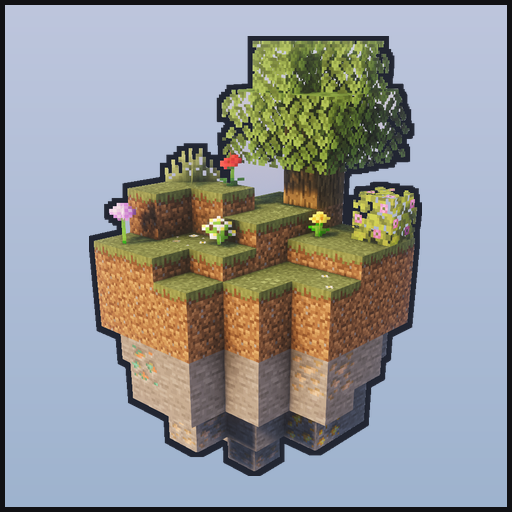
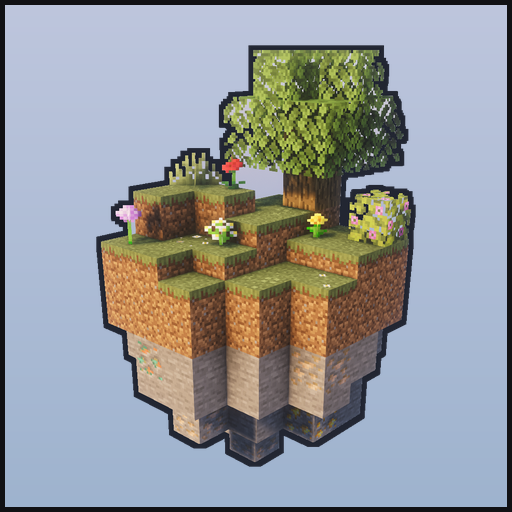
Pixelate the ring, and measure the layout by it rather than the island
Smooth vector arcs beside a block texture read as clip art dropped on a
screenshot. The ring is drawn at an eighth scale and blown back up with
NEAREST, so its curves land on a coarse grid and step the way the game's
own art does.

It also sat too close in, passing behind the canopy, which read as the
ring being interrupted rather than going around. It is wider now, and
the island is pulled back to make room.

That exposed a layout bug: the ring is centred on the island but reaches
well past it, and the block was measured by the island alone - so the
ring crowded the frame above and ran across the wordmark below. The
block now measures whichever is taller.

Two smaller things. The crop was the outline's exact bounding box, which
put the island's lowest pixel flush with the edge where downscaling
shaved it and the bottom tip looked cut off; it gets padding now. And
the wordmark is bigger, which there is room for since the island came
back.

Changed region(s): [[0.1562, 0.0625, 0.8438, 0.9375]]

diff --git a/docs/branding/make_banner.py b/docs/branding/make_banner.py
@@ -67,6 +67,10 @@ INK = (17, 17, 20)
 ARROW_GREEN = (0x6C, 0xC2, 0x4A)
 ARROW_BLUE = (0x4E, 0xA8, 0xE0)
 
+# Side of one arrow "pixel" in final image pixels. The ring is drawn this much
+# smaller and scaled back up with NEAREST.
+PIXEL_SIZE = 8
+
 SKY_TOP = (0xBE, 0xC6, 0xDD)
 SKY_BOTTOM = (0x9E, 0xB3, 0xCE)
 
@@ -111,8 +115,15 @@ def outlined_island(path: str):
 
     ring = ndimage.binary_dilation(mask, np.ones((3, 3)), iterations=OUTLINE_PX)
 
+    # A little air around the outline. Cropping to its exact bounds put the
+    # lowest pixel flush with the image edge, where downscaling shaved it and
+    # the island looked cut off at the bottom.
+    pad = OUTLINE_PX * 2
     ys, xs = np.where(ring)
-    box = (xs.min(), ys.min(), xs.max() + 1, ys.max() + 1)
+    box = (max(0, xs.min() - pad),
+           max(0, ys.min() - pad),
+           min(rgb.shape[1], xs.max() + 1 + pad),
+           min(rgb.shape[0], ys.max() + 1 + pad))
 
     out = np.zeros((rgb.shape[0], rgb.shape[1], 4), dtype=np.uint8)
     out[ring] = (*OUTLINE_INK, 255)  # outline underneath
@@ -187,7 +198,7 @@ def text_width(boxes, text, scale):
 
 # -------------------------------------------------------------------- arrows
 
-def arc_arrow(layer, cx, cy, radius, a0_deg, a1_deg, width, colour):
+def arc_arrow(layer, cx, cy, radius, a0_deg, a1_deg, width, colour, outline_w):
     """One arc with an arrowhead at its far end, outlined to match the island.
 
     Drawn as a run of overlapping discs rather than with ImageDraw.arc, which
@@ -202,7 +213,7 @@ def arc_arrow(layer, cx, cy, radius, a0_deg, a1_deg, width, colour):
     head_len = width * 2.0
     head_half = width * 1.35
 
-    for pass_w, pass_col in ((width + OUTLINE_PX * 0.9, OUTLINE_INK), (width, colour)):
+    for pass_w, pass_col in ((width + outline_w, OUTLINE_INK), (width, colour)):
         d = ImageDraw.Draw(layer)
         # The shaft runs right up to the head's base rather than stopping short
         # of it. The head is wider than the shaft and its tip sits beyond a1, so
@@ -228,17 +239,26 @@ def arc_arrow(layer, cx, cy, radius, a0_deg, a1_deg, width, colour):
         ], fill=(*pass_col, 255))
 
 
-def sync_ring(size, cx, cy, radius, width):
+def sync_ring(size, cx, cy, radius, width, pix=PIXEL_SIZE):
     """Two arrows chasing each other around a circle: the round trip.
 
     Both sweep the same way. The mod is not two one-way transfers, it is one
     world going out and coming back, and two arrows pointing at each other
     would say the opposite.
+
+    Drawn at a fraction of the final size and blown back up with NEAREST, so
+    the curves land on a coarse grid and step the way Minecraft's own art does.
+    Smooth vector arcs beside a block texture looked like clip art dropped on
+    top of a screenshot.
     """
-    layer = Image.new("RGBA", size, (0, 0, 0, 0))
-    arc_arrow(layer, cx, cy, radius, 200, 350, width, ARROW_GREEN)
-    arc_arrow(layer, cx, cy, radius, 20, 170, width, ARROW_BLUE)
-    return layer
+    small = (max(1, size[0] // pix), max(1, size[1] // pix))
+    layer = Image.new("RGBA", small, (0, 0, 0, 0))
+    args = (cx / pix, cy / pix, radius / pix)
+    w = max(1.0, width / pix)
+    ow = max(1.0, OUTLINE_PX * 0.9 / pix)
+    arc_arrow(layer, *args, 200, 350, w, ARROW_GREEN, ow)
+    arc_arrow(layer, *args, 20, 170, w, ARROW_BLUE, ow)
+    return layer.resize(size, Image.NEAREST)
 
 
 # ------------------------------------------------------------------ compose
@@ -263,17 +283,17 @@ def build():
     W = H = 1024
     canvas = sky_backdrop((W, H))
 
-    art_h = int(H * 0.56)
-    scale_f = min(art_h / island.height, (W * 0.72) / island.width)
+    art_h = int(H * 0.46)
+    scale_f = min(art_h / island.height, (W * 0.62) / island.width)
     art = island.resize(
         (max(1, int(island.width * scale_f)), max(1, int(island.height * scale_f))),
         Image.LANCZOS)
 
-    title_scale = 9
-    while text_width(boxes, TITLE, title_scale) > W * 0.86 and title_scale > 1:
+    title_scale = 14
+    while text_width(boxes, TITLE, title_scale) > W * 0.90 and title_scale > 1:
         title_scale -= 1
-    sub_scale = max(1, round(title_scale / 2.6))
-    while text_width(boxes, SUBTITLE, sub_scale) > W * 0.88 and sub_scale > 1:
+    sub_scale = max(1, round(title_scale / 3.2))
+    while text_width(boxes, SUBTITLE, sub_scale) > W * 0.90 and sub_scale > 1:
         sub_scale -= 1
 
     # Centre the block as a whole rather than placing each piece at a fixed
@@ -284,21 +304,25 @@ def build():
     gap_art_title = int(H * 0.055)
     gap_title_sub = int(H * 0.028)
 
-    block_h = (art.height + gap_art_title + glyph_h * title_scale
+    # The ring is the tall part, not the island. It is centred on the island but
+    # reaches well past it, so measuring the block by the island alone pushed the
+    # ring into the frame at the top and across the wordmark at the bottom.
+    ring_w = max(8, int(W * 0.028))
+    ring_r = max(art.width, art.height) * 0.58
+    ring_extent = ring_r + ring_w / 2.0 + OUTLINE_PX
+    art_block_h = int(max(art.height, ring_extent * 2))
+
+    block_h = (art_block_h + gap_art_title + glyph_h * title_scale
                + gap_title_sub + glyph_h * sub_scale)
     y = (H - block_h) // 2
 
     # Behind the island, so the ring passes around and out of sight rather than
     # sitting on top of it - which is what makes it read as circling.
-    ax, ay = (W - art.width) // 2, y
-    canvas.alpha_composite(sync_ring(
-        (W, H),
-        ax + art.width / 2.0,
-        ay + art.height / 2.0,
-        max(art.width, art.height) * 0.56,
-        max(8, int(W * 0.026))))
-    canvas.alpha_composite(art, (ax, ay))
-    y += art.height + gap_art_title
+    cx, cy = W / 2.0, y + art_block_h / 2.0
+    canvas.alpha_composite(sync_ring((W, H), cx, cy, ring_r, ring_w))
+    canvas.alpha_composite(
+        art, (int(cx - art.width / 2), int(cy - art.height / 2)))
+    y += art_block_h + gap_art_title
 
     tw = text_width(boxes, TITLE, title_scale)
     draw_text(canvas, atlas, boxes, TITLE, (W - tw) // 2, y,
